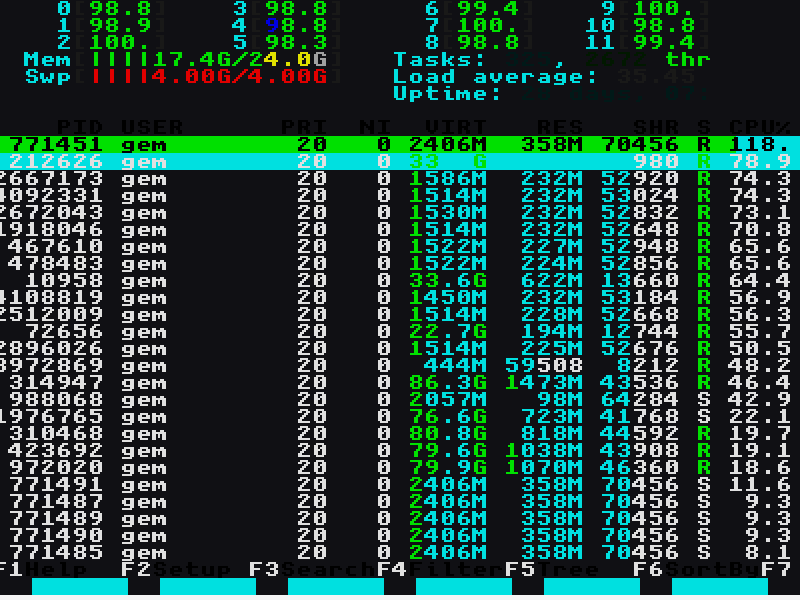
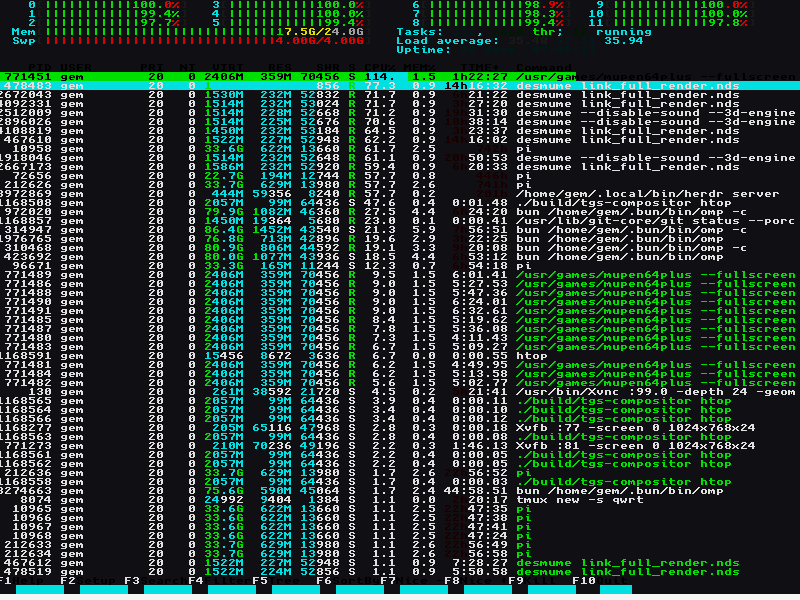
fix: terminal cell uses a real terminal font (unscii-8) — 100 columns, not 50
unscii-16 is a 16x16 font, so an 800 px window gave only 50 columns and htop's
fixed-width layout was cut off (Load average..., the Command column). Terminals
use a narrow monospace cell; unscii-8 is a true bitmap terminal font, so the grid
becomes 100x66 — a normal terminal's shape — with glyphs drawn 1:1 and crisp.

The cell size was already read from the font (advance x line height), so this is
the font choice alone: lv_conf enables unscii-8, lvgl_term.c draws with it, and
font_probe reports the metrics it depends on.

Verified: 100x66 grid; htop's header, meters and process table all fit without
truncation; 37/37 tests pass.

diff --git a/src/backends/lvgl/lvgl_term.c b/src/backends/lvgl/lvgl_term.c
@@ -1,31 +1,33 @@
 /*
  * Terminal view — draws a tgs_term cell grid into an LVGL canvas.
  *
- * The bitmap font in use (unscii-16) covers ASCII only, and every TUI draws
- * its frames from the box-drawing and block ranges. Rather than pull in a
- * larger font, those glyphs are synthesised as rectangles: exact at any cell
- * size, and it keeps the font tiny.
+ * The bitmap font in use (unscii-8) covers ASCII only, and every TUI draws its
+ * frames from the box-drawing and block ranges. Rather than pull in a larger
+ * font, those glyphs are synthesised as rectangles: exact at any cell size, and
+ * it keeps the font tiny.
  */
 #include "lvgl_term.h"
 
 #include <stdlib.h>
 #include <string.h>
 
-extern const lv_font_t lv_font_unscii_16;
+extern const lv_font_t lv_font_unscii_8;
 
 /* The cell is what the font actually advances, read from the font rather than
- * assumed: unscii-16 advances 16 px on a 17 px line here, so a hard-coded 8x16
- * cell drew every glyph across its neighbour. */
+ * assumed: guessing a cell size is how every glyph ends up drawn across its
+ * neighbour. unscii-8 is a true bitmap terminal font, which keeps a normal
+ * terminal's column count (100+ at 800 px) instead of the ~50 a double-width
+ * font gives. */
 static int g_cell_w;
 static int g_cell_h;
 
 static void ensure_cell_size(void)
 {
     if (g_cell_w > 0) return;
-    g_cell_w = (int)lv_font_get_glyph_width(&lv_font_unscii_16, 'M', 'M');
-    g_cell_h = (int)lv_font_get_line_height(&lv_font_unscii_16);
-    if (g_cell_w < 1) g_cell_w = 16;
-    if (g_cell_h < 1) g_cell_h = 17;
+    g_cell_w = (int)lv_font_get_glyph_width(&lv_font_unscii_8, 'M', 'M');
+    g_cell_h = (int)lv_font_get_line_height(&lv_font_unscii_8);
+    if (g_cell_w < 1) g_cell_w = 8;
+    if (g_cell_h < 1) g_cell_h = 9;
 }
 
 int tgs_term_view_cell_w(void) { ensure_cell_size(); return g_cell_w; }
@@ -166,7 +168,7 @@ static void draw_char(lv_layer_t *L, int x, int y, uint32_t cp, uint32_t fg)
     lv_draw_letter_dsc_init(&d);
     d.unicode = cp;
     d.color = lv_color_hex(rgb_of(fg));
-    d.font = &lv_font_unscii_16;
+    d.font = &lv_font_unscii_8;
 
     p.x = x;
     p.y = y;

diff --git a/tests/font_probe.c b/tests/font_probe.c
@@ -9,7 +9,7 @@
 
 #include <stdio.h>
 
-extern const lv_font_t lv_font_unscii_16;
+extern const lv_font_t lv_font_unscii_8;
 
 int main(void)
 {
@@ -20,7 +20,7 @@ int main(void)
     lv_init();
 
     for (i = 0; i < sizeof(cps) / sizeof(cps[0]); i++) {
-        if (lv_font_get_glyph_dsc(&lv_font_unscii_16, &d, cps[i], 0)) {
+        if (lv_font_get_glyph_dsc(&lv_font_unscii_8, &d, cps[i], 0)) {
             printf("U+%04X '%c'  adv_w=%u  box=%ux%u  ofs=(%d,%d)\n",
                    (unsigned)cps[i], (int)cps[i],
                    (unsigned)d.adv_w, (unsigned)d.box_w, (unsigned)d.box_h,
@@ -30,7 +30,7 @@ int main(void)
         }
     }
     printf("--- line_height=%d  glyph_width('M')=%d\n",
-           (int)lv_font_get_line_height(&lv_font_unscii_16),
-           (int)lv_font_get_glyph_width(&lv_font_unscii_16, 'M', 'M'));
+           (int)lv_font_get_line_height(&lv_font_unscii_8),
+           (int)lv_font_get_glyph_width(&lv_font_unscii_8, 'M', 'M'));
     return 0;
 }

diff --git a/src/backends/lvgl/lv_conf.h b/src/backends/lvgl/lv_conf.h
@@ -104,8 +104,8 @@
 #define LV_FONT_DEJAVU_16_PERSIAN_HEBREW 0
 #define LV_FONT_SOURCE_HAN_SANS_SC_14_CJK 0
 #define LV_FONT_SOURCE_HAN_SANS_SC_16_CJK 0
-#define LV_FONT_UNSCII_8 0
-#define LV_FONT_UNSCII_16 1
+#define LV_FONT_UNSCII_8 1
+#define LV_FONT_UNSCII_16 0
 #define LV_USE_FONT_PLACEHOLDER 1
 
 /*============================================================================
